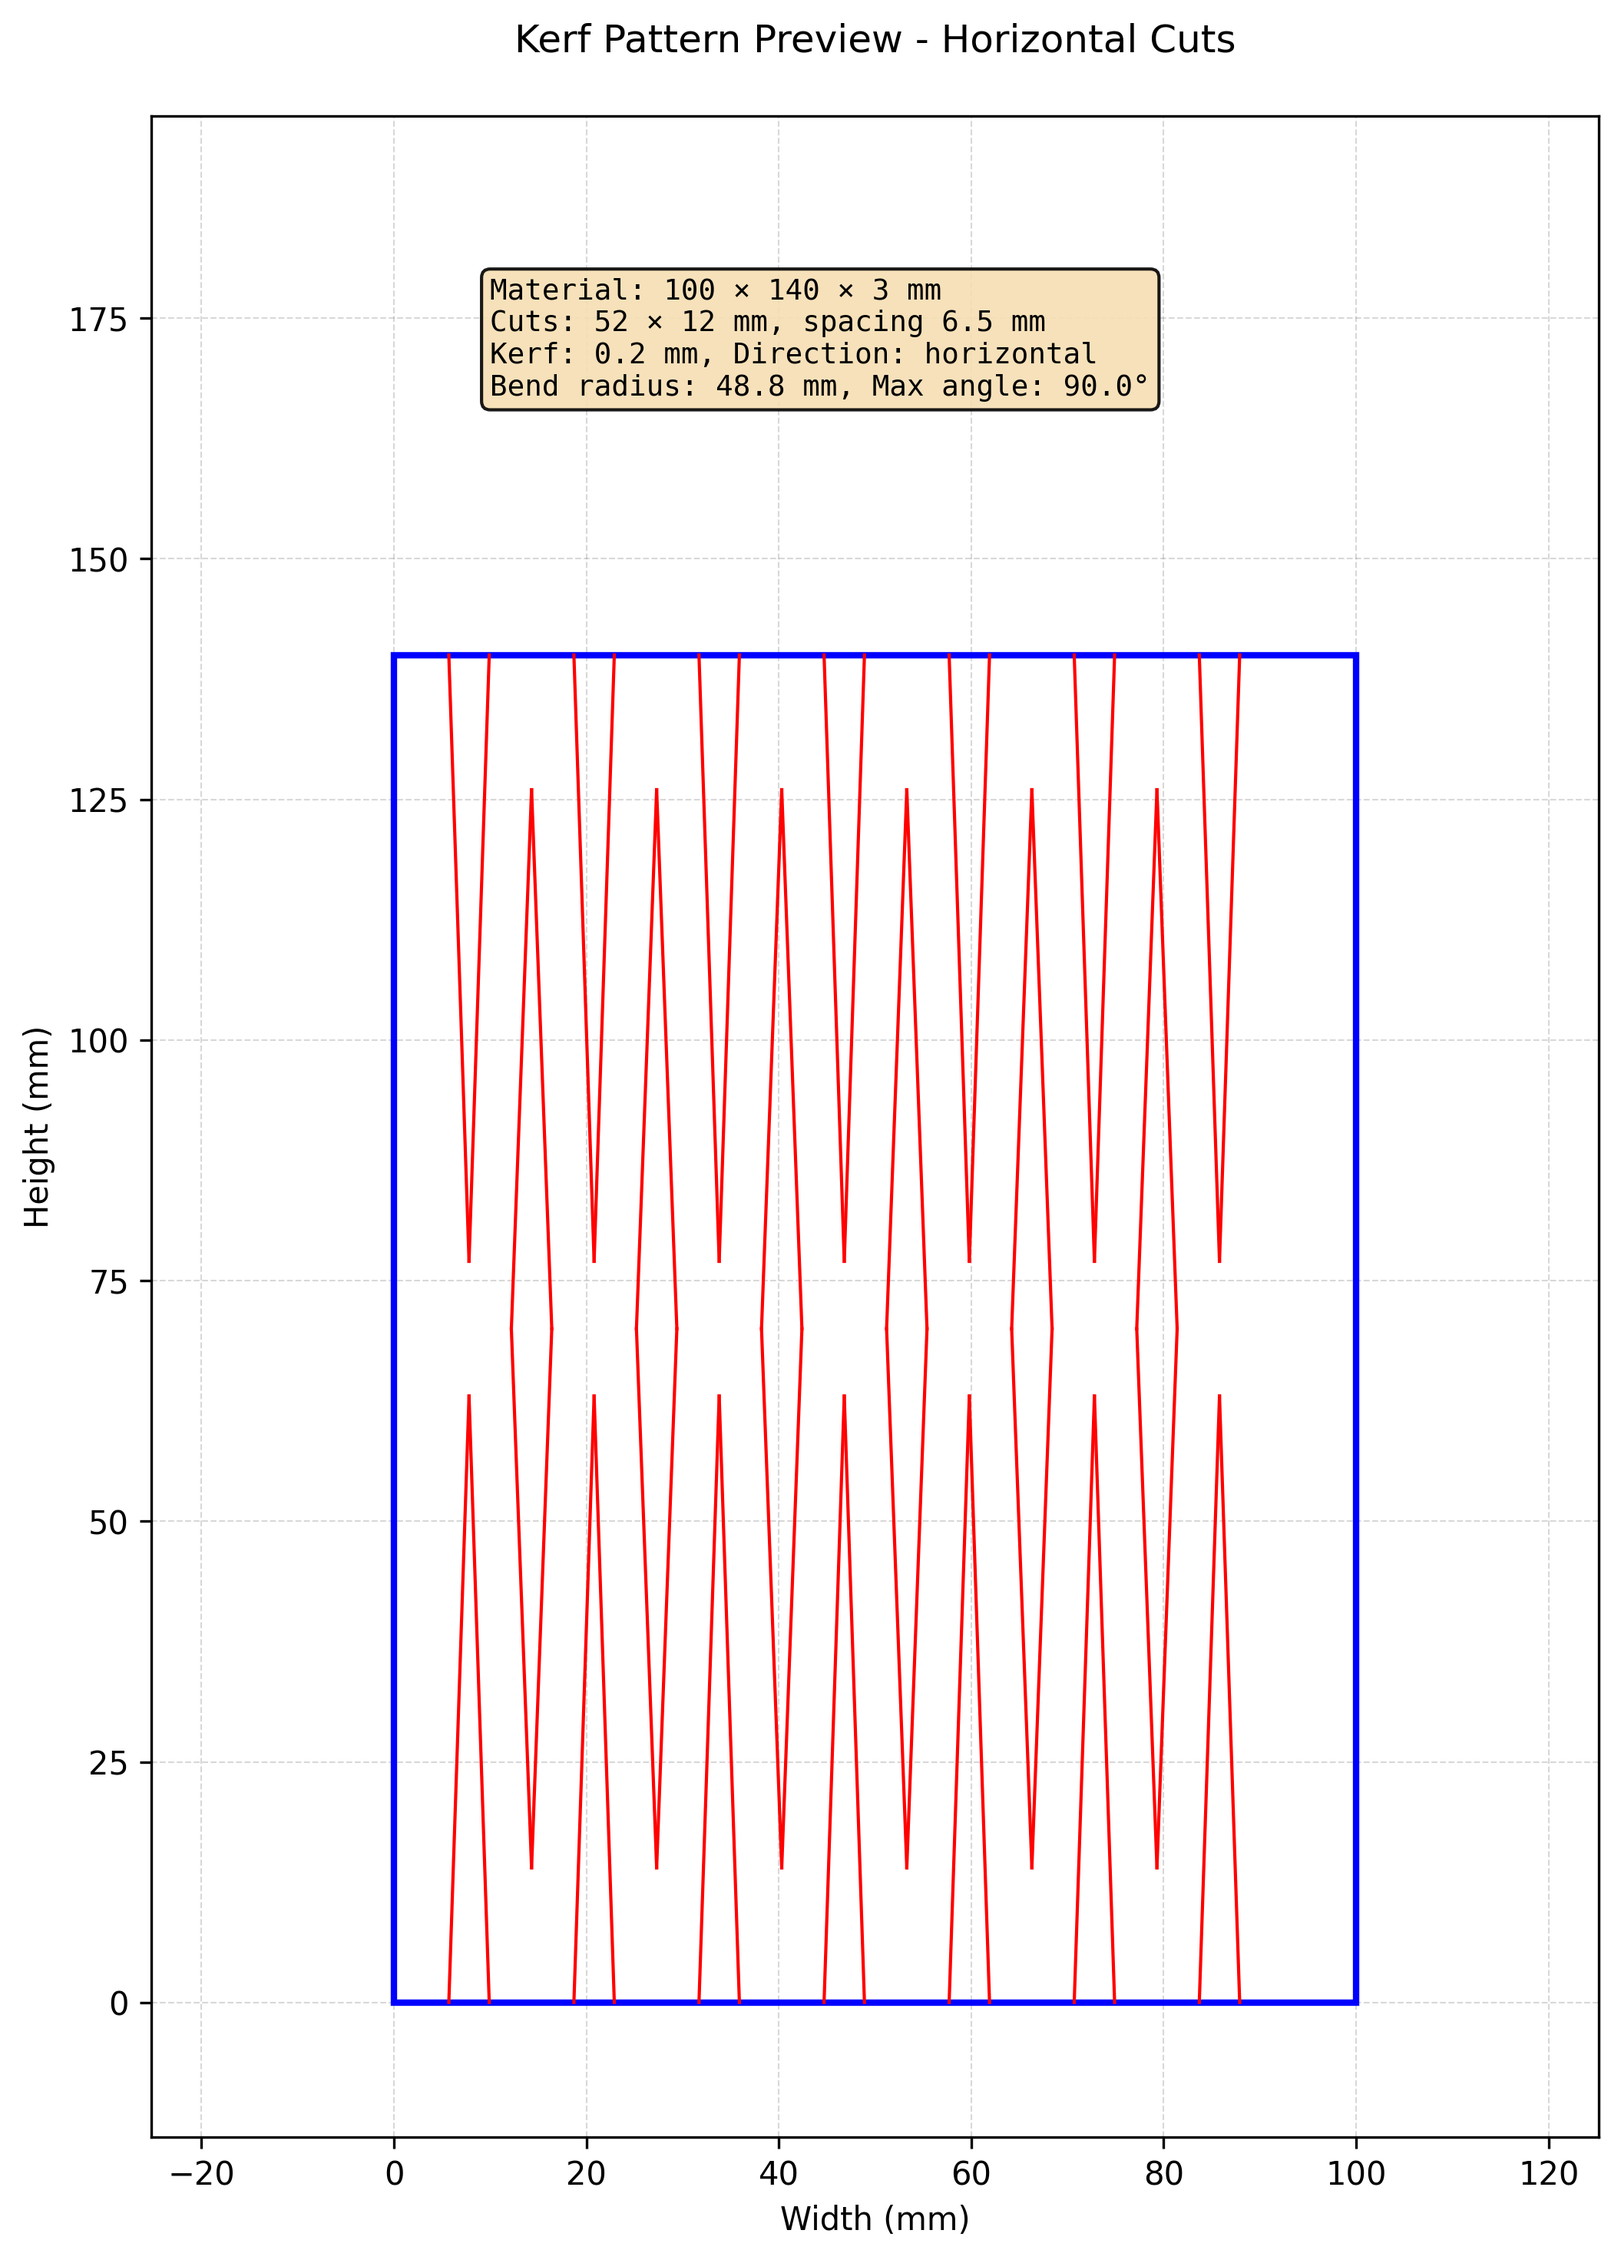
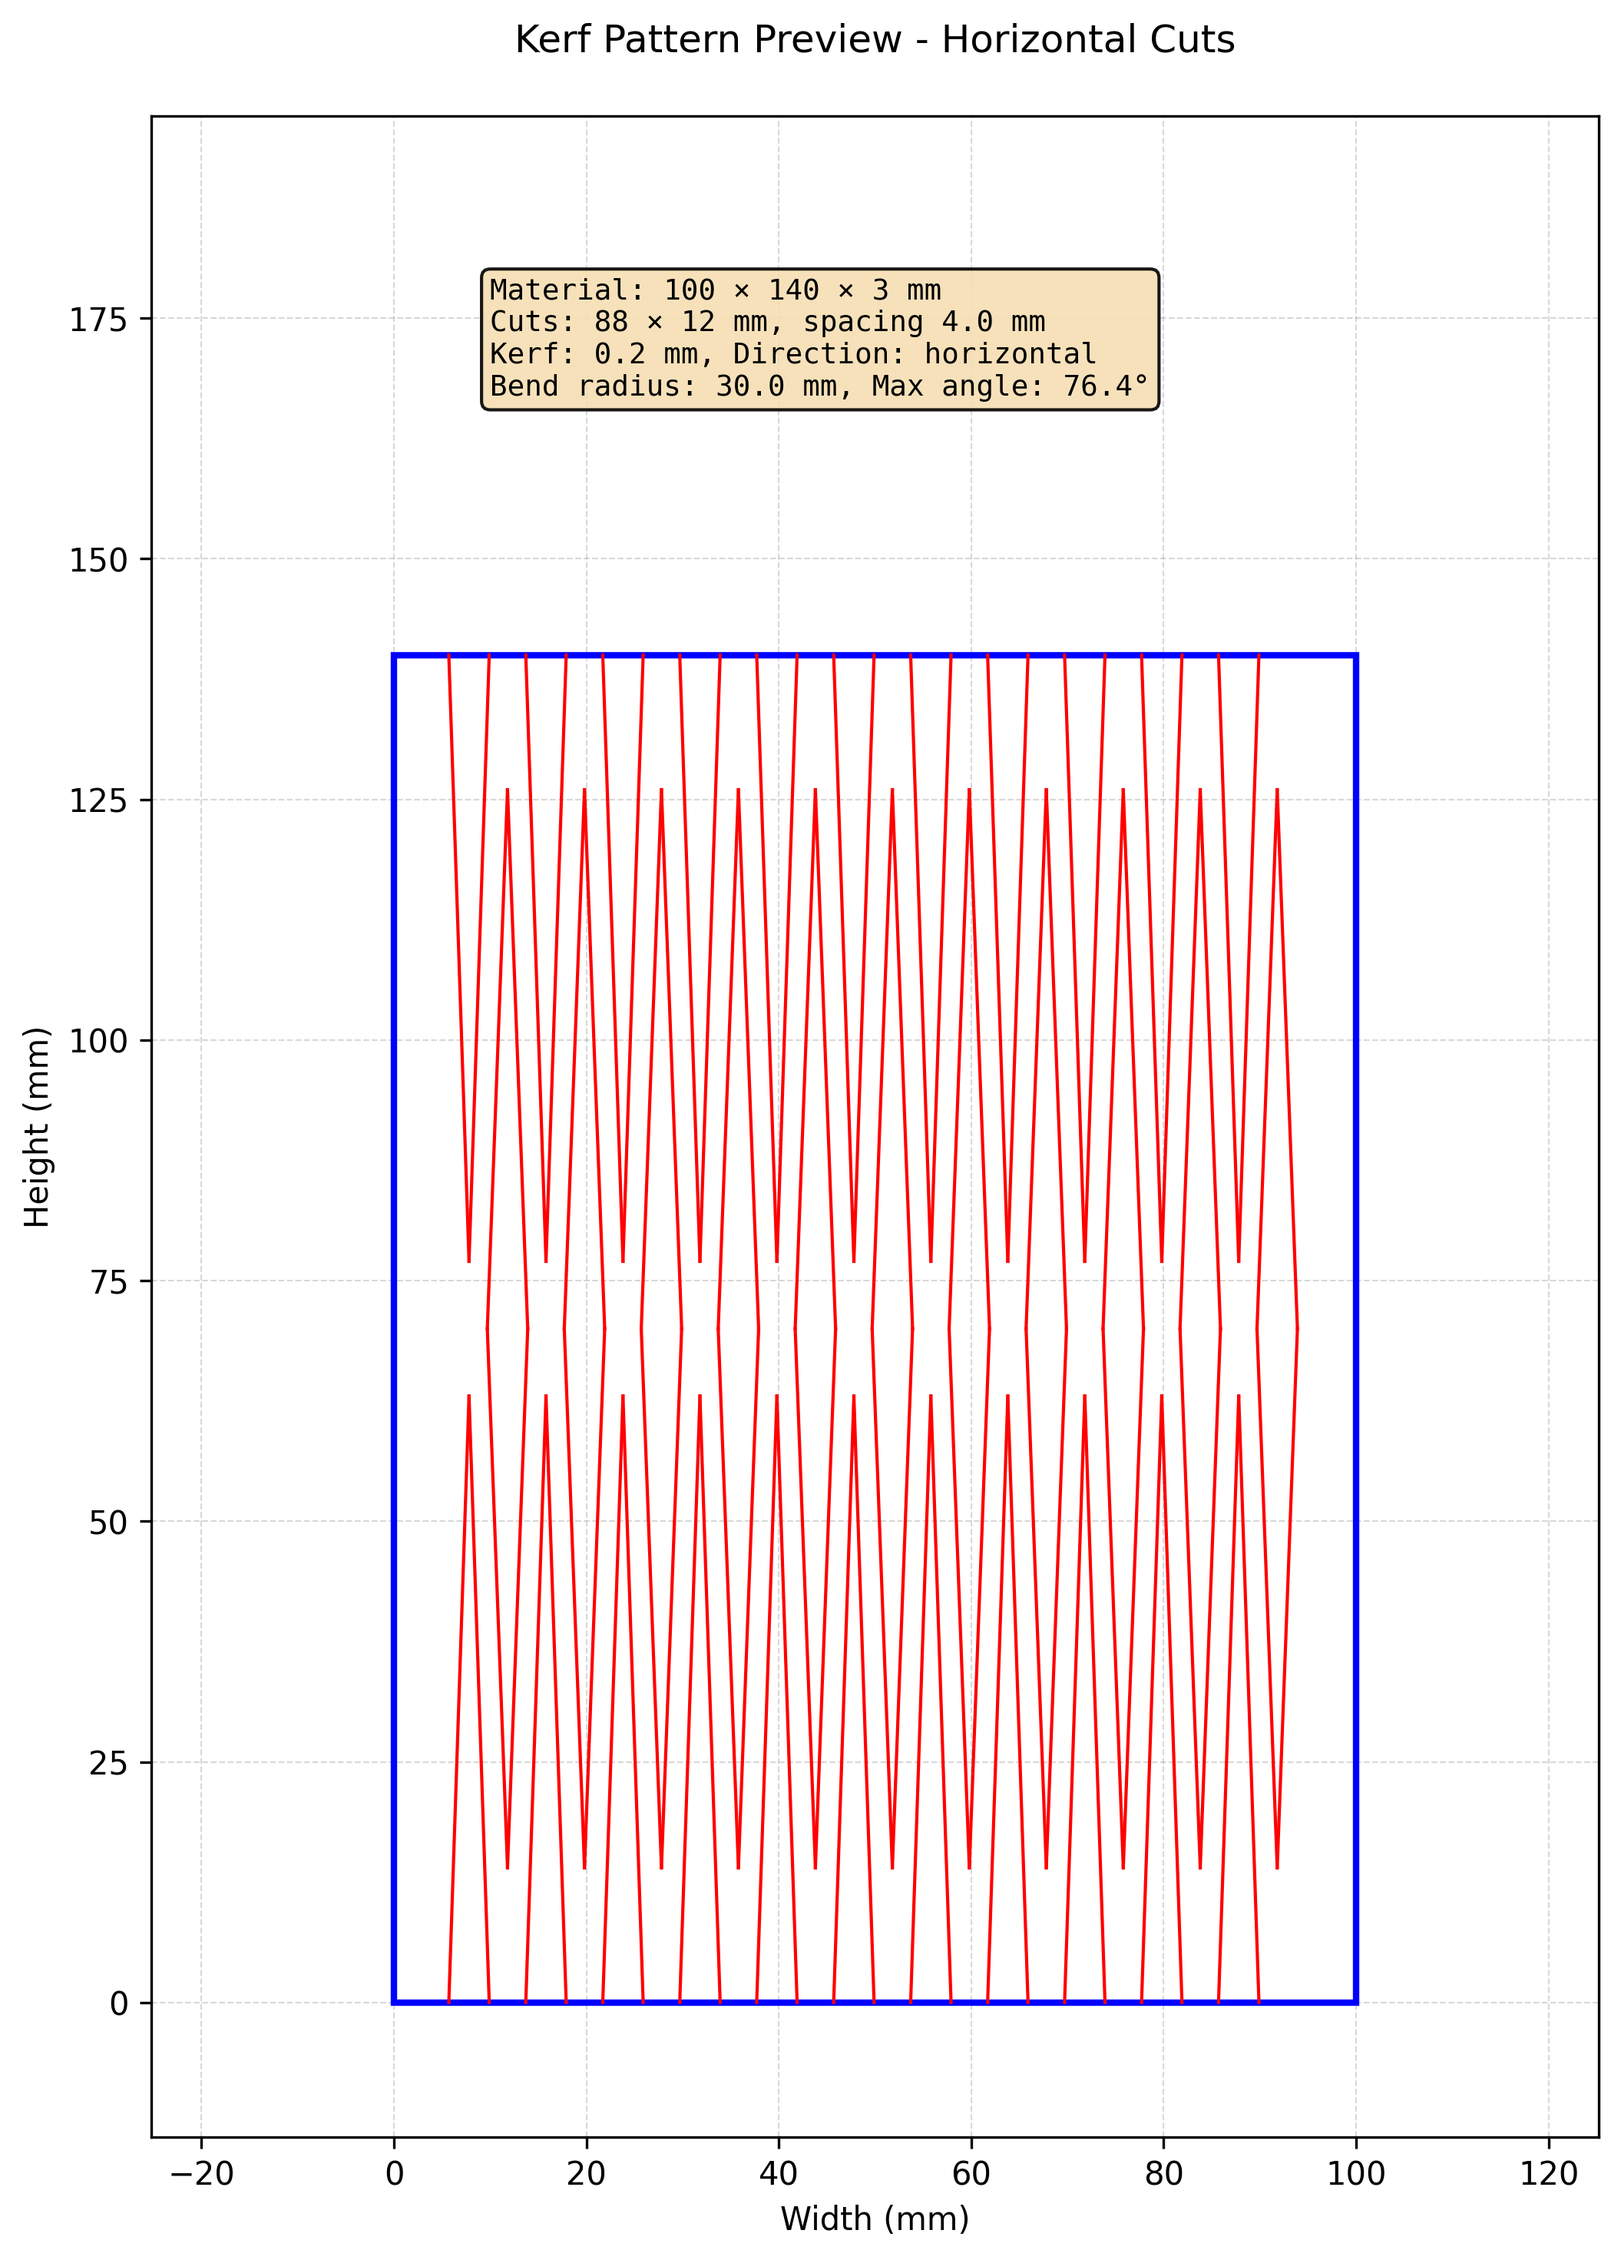
feat: add pattern-aware validation and research-based parameters
Major improvements to living hinge validation and documentation:

Validation Updates:
- Added pattern-type aware validation (living hinges vs structural)
- Living hinges: 2mm min, 3-5mm optimal, warn if >8mm (too stiff)
- Structural cuts: maintain 1.5-2x thickness safety rule
- Updated calculate_minimum_spacing() with pattern_type parameter
- Better warning messages specific to use case

Parameter Optimization:
- Updated example spacing from 6.5mm → 4mm (research-based optimal)
- 4mm is in the industry-recommended 3-5mm range for flexibility
- regenerate_docs_images.py now uses research-based defaults
- Regenerated all documentation images with improved spacing

Research Documentation:
- Added comprehensive "Living Hinge Design Guidelines" section
- Industry best practices: spacing, cut depth, grain orientation
- 10 reference links: calculators, tutorials, guides
- Parameter optimization notes for future improvements

Based on research from:
- Blocklayer kerf calculators
- Fine Woodworking calculated kerfs
- Laser Co, Ponoko, 52Lasers tutorials
- Glowforge community best practices

Changed region(s): [[0.3079, 0.2784, 0.8006, 0.897]]

diff --git a/src/kerf_generator/geometry.py b/src/kerf_generator/geometry.py
@@ -141,27 +141,33 @@ def calculate_minimum_spacing(
     material_thickness: float,
     kerf_width: float,
     safety_factor: float = 2.0,
+    pattern_type: str = "structural",
 ) -> float:
     """
     Calculate the minimum safe spacing between cuts.
 
-    Spacing too close can result in material failure, poor structural integrity,
-    or burns during cutting. This provides a conservative minimum.
+    Different pattern types have different spacing requirements:
+    - Living hinges (straight/diamond/oval): Tight spacing (2-5mm) for flexibility
+    - Structural cuts: Wide spacing (1.5-2x thickness) for strength
 
     Args:
         material_thickness: Thickness of material in mm
         kerf_width: Width of laser cut in mm
         safety_factor: Multiplier for safety margin (default: 2.0)
+        pattern_type: Type of pattern - "straight", "diamond", "oval", or "structural"
 
     Returns:
         Minimum safe spacing in mm
 
     Notes:
-        Rule of thumb: spacing should be at least 1.5-2x material thickness
-        for structural integrity. Thinner spacing risks:
-        - Material collapse during cutting
-        - Excessive charring between cuts
-        - Loss of structural strength
+        Living Hinges (straight/diamond/oval):
+            - Target: 3-5mm for good flexibility in wood
+            - Minimum: 2mm (tighter risks warping)
+            - Based on industry best practices for laser-cut wood living hinges
+
+        Structural Cuts:
+            - Rule of thumb: 1.5-2x material thickness for integrity
+            - Prevents material collapse, charring, and loss of strength
     """
     if material_thickness <= 0:
         raise ValueError("Material thickness must be positive")
@@ -170,11 +176,22 @@ def calculate_minimum_spacing(
     if safety_factor <= 0:
         raise ValueError("Safety factor must be positive")
 
-    # Minimum spacing based on material thickness and kerf
-    min_spacing = max(
-        material_thickness * 1.5,  # Structural minimum
-        kerf_width * 3.0,          # Practical cutting minimum
-    ) * safety_factor
+    # Different rules for living hinges vs structural cuts
+    is_living_hinge = pattern_type in ("straight", "diamond", "oval")
+
+    if is_living_hinge:
+        # Living hinges need TIGHT spacing for flexibility
+        # Based on industry research: 2-5mm range is optimal for 3mm wood
+        min_spacing = max(
+            2.0,                # Absolute minimum (below this risks warping)
+            kerf_width * 10.0,  # Ensure enough material between cuts
+        )
+    else:
+        # Structural cuts need WIDE spacing for strength
+        min_spacing = max(
+            material_thickness * 1.5,  # Structural minimum
+            kerf_width * 3.0,          # Practical cutting minimum
+        ) * safety_factor
 
     return min_spacing
 
@@ -225,6 +242,7 @@ def validate_pattern_parameters(
     cut_spacing: float,
     cut_length: float,
     cut_offset: float,
+    pattern_type: str = "structural",
 ) -> tuple[bool, list[str]]:
     """
     Validate that pattern parameters are physically reasonable and safe.
@@ -237,6 +255,7 @@ def validate_pattern_parameters(
         cut_spacing: Distance between cuts in mm
         cut_length: Length of each cut in mm
         cut_offset: Offset from edge in mm
+        pattern_type: Type of pattern - "straight", "diamond", "oval", or "structural"
 
     Returns:
         Tuple of (is_valid, list_of_warnings)
@@ -280,14 +299,29 @@ def validate_pattern_parameters(
         )
         is_valid = False
 
-    # Check spacing safety
-    min_spacing = calculate_minimum_spacing(material_thickness, kerf_width)
+    # Check spacing safety (pattern-type aware)
+    is_living_hinge = pattern_type in ("straight", "diamond", "oval")
+    min_spacing = calculate_minimum_spacing(material_thickness, kerf_width, pattern_type=pattern_type)
+
     if cut_spacing < min_spacing:
-        warnings.append(
-            f"Cut spacing ({cut_spacing}mm) is below recommended minimum ({min_spacing:.2f}mm). "
-            "Risk of structural failure."
-        )
+        if is_living_hinge:
+            warnings.append(
+                f"Cut spacing ({cut_spacing}mm) is below recommended minimum ({min_spacing:.2f}mm). "
+                "Risk of warping or unreliable cuts. For living hinges, 3-5mm spacing is optimal."
+            )
+        else:
+            warnings.append(
+                f"Cut spacing ({cut_spacing}mm) is below recommended minimum ({min_spacing:.2f}mm). "
+                "Risk of structural failure."
+            )
         # Don't set is_valid=False, just warn
+
+    # Living hinge specific guidance: warn if spacing is too wide for good flexibility
+    if is_living_hinge and cut_spacing > 8.0:
+        warnings.append(
+            f"Cut spacing ({cut_spacing}mm) is quite wide for a living hinge. "
+            "Consider 3-5mm for better flexibility. Wider spacing = stiffer hinge."
+        )
 
     # Check that cuts fit within material
     if cut_offset * 2 + cut_length > material_height:

diff --git a/regenerate_docs_images.py b/regenerate_docs_images.py
@@ -17,7 +17,7 @@ params = KerfParameters(
     material_height=140,
     material_thickness=3,
     kerf_width=0.2,
-    cut_spacing=6.5,
+    cut_spacing=4.0,
     cut_length=12,
     cut_offset=8,
     pattern_type='diamond',
@@ -37,7 +37,7 @@ params = KerfParameters(
     material_height=320,
     material_thickness=3,
     kerf_width=0.2,
-    cut_spacing=6.5,
+    cut_spacing=4.0,
     cut_length=12,
     cut_offset=8,
     pattern_type='diamond',
@@ -57,7 +57,7 @@ params = KerfParameters(
     material_height=120,
     material_thickness=3,
     kerf_width=0.2,
-    cut_spacing=6.5,
+    cut_spacing=4.0,
     cut_length=12,
     cut_offset=8,
     pattern_type='diamond',
@@ -77,7 +77,7 @@ params = KerfParameters(
     material_height=140,
     material_thickness=3,
     kerf_width=0.2,
-    cut_spacing=6.5,
+    cut_spacing=4.0,
     cut_length=12,
     cut_offset=8,
     pattern_type='oval',
@@ -97,7 +97,7 @@ params = KerfParameters(
     material_height=320,
     material_thickness=3,
     kerf_width=0.2,
-    cut_spacing=6.5,
+    cut_spacing=4.0,
     cut_length=12,
     cut_offset=8,
     pattern_type='oval',
@@ -117,7 +117,7 @@ params = KerfParameters(
     material_height=120,
     material_thickness=3,
     kerf_width=0.2,
-    cut_spacing=6.5,
+    cut_spacing=4.0,
     cut_length=12,
     cut_offset=8,
     pattern_type='oval',

diff --git a/src/kerf_generator/parameters.py b/src/kerf_generator/parameters.py
@@ -84,6 +84,7 @@ class KerfParameters:
             cut_spacing=self.cut_spacing,
             cut_length=self.cut_length,
             cut_offset=self.cut_offset,
+            pattern_type=self.pattern_type,
         )
 
         # Check pattern type

diff --git a/ONGOING_TASKS.md b/ONGOING_TASKS.md
@@ -232,6 +232,58 @@ lines = generate_living_hinge(
 )
 ```
 
+## Living Hinge Design Guidelines (Research)
+
+### Industry Best Practices for Wood/Plywood
+
+Based on research from laser cutting practitioners and woodworking experts:
+
+#### Recommended Spacing for Laser Cut Wood
+- **Tight flexibility**: 1/16" (1.6mm) spacing - bamboo plywood 1/8" thick
+- **Good balance**: 2-3.5mm spacing - common for zig-zag patterns
+- **Durable**: 1/8" (3.2mm) spacing - recommended for less breakage
+- **⚠ Too tight**: 1mm spacing - can cause warping and reliability issues
+
+#### Cut Depth Guidelines
+- Leave **1/16" to 1/8"** (0.5-1mm) material on the backing ("bone")
+- For 3mm material: leave ~0.5-1mm uncut backing thickness
+- Thinner backing = more flex, but higher fracture risk
+
+#### Material Orientation
+- **CRITICAL**: Run cuts **along the grain**, NOT across it
+- Aligning with grain harnesses wood's natural structural flexibility
+- Cross-grain cuts will fracture more easily
+
+#### General Recommendations
+- **Test first!** Cut sample swatches with varying spacings
+- Use radius gauge to measure actual bend radius
+- Closer cuts = more flexibility, higher fracture risk
+- Wider spacing = more durable, less bendable
+- Best material thickness: 5/8" to 1" for traditional kerf bending
+
+### Useful Calculators & Tools
+- [Kerf Spacing Calculator - Metric](https://www.blocklayer.com/kerf-spacing)
+- [Kerf Spacing Calculator - Inch](https://www.blocklayer.com/kerf-spacingeng)
+- [Kerf Bend Calculator](https://calculator.academy/kerf-bend-calculator/)
+
+### Reference Articles & Guides
+- [Laser cutting a living hinge - Laser Co](https://thelaserco.com/laser-cutting-living-hinge/)
+- [Laser cut living hinges for neater designs - RS Online](https://www.rs-online.com/designspark/laser-cut-living-hinges-for-neater-designs)
+- [How To: Design a Living Hinge - Ponoko](https://www.ponoko.com/blog/how-to-make/how-to-design-a-living-hinge/)
+- [45: Living Hinges – 52LASERS](https://52lasers.com/2014/11/12/45-living-hinges/)
+- [Good article on designing living hinges - Glowforge Forum](https://community.glowforge.com/t/good-article-on-designing-living-hinges/127217)
+- [Calculated kerfs - Fine Woodworking](https://www.finewoodworking.com/2021/09/29/calculated-kerfs)
+- [Wood Bending by Kerfing - Lost Art Press](https://blog.lostartpress.com/2023/01/31/wood-bending-by-kerfing/)
+- [Bend-testing laser-cut plywood hinge patterns - The Kid Should See This](https://thekidshouldseethis.com/post/bend-testing-laser-cut-plywood-hinge-patterns)
+- [Lattice Hinge Design — Minimum Bend Radius - DefProc](https://www.defproc.co.uk/analysis/lattice-hinge-design-minimum-bend-radius/)
+- [Designing Living Hinge Laser Cut Handbag - Makers Workshop](https://makersworkshop.com/blogs/news/designing-and-making-a-living-hinge-laser-cut-handbag)
+
+### Parameter Optimization Notes
+- Current doc examples use 6.5mm spacing - may be too wide for tight bends
+- Industry suggests 3-5mm range for good flexibility in 3mm wood
+- Validation warning at 9mm may need adjustment for living hinge use case
+- Consider adding material-specific presets based on research
+
 ## Future Enhancements
 
 - [ ] Additional pattern types (hexagonal, crosshatch)
@@ -239,9 +291,10 @@ lines = generate_living_hinge(
 - [ ] Import DXF shapes and apply patterns
 - [ ] 3D preview of bent result
 - [ ] Web-based parameter calculator
-- [ ] Material library with presets
+- [ ] Material library with presets (based on research guidelines)
 - [ ] Pattern rotation/orientation options
 - [ ] Automated test suite expansion
+- [ ] Adjust validation warnings for living hinge vs structural kerf cutting
 
 ## Notes
 
